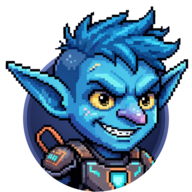
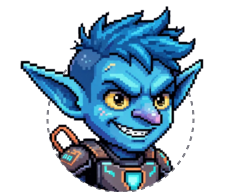
fix(app): finish the transparent goblin portrait with a dotted ring
Model: openai/gpt-6.2-sol
Request: Use the approved three-pixel-left crop and keep a thin dotted gray ring with no fill.

diff --git a/app/src/styles.css b/app/src/styles.css
@@ -8619,11 +8619,17 @@ button.link:hover {
 }
 .goblin-avatar img {
 	display: block;
-	width: 100%;
 	height: 100%;
-	object-fit: contain;
+}
+.goblin-avatar[data-portrait] img {
+	position: absolute;
+	top: 0;
+	left: 50%;
+	width: auto;
+	transform: translateX(-50%);
 }
 .goblin-avatar:not([data-portrait]) img {
+	width: 100%;
 	object-fit: cover;
 	border-radius: 50%;
 	image-rendering: pixelated;

diff --git a/.agents/skills/verify-goblin/features/posts.md b/.agents/skills/verify-goblin/features/posts.md
@@ -8,7 +8,7 @@ Goblin calls the `post` tool; the post shows in the Goblin panel's Activity tab 
 
 Desktop: the Goblin panel is the right column beside any chat page, Activity tab first. Phone: tap Goblin's avatar in the chats bar or a chat's header to open the panel as a sheet.
 
-Above the panel tabs, both ear tips and the hair should extend past the round backdrop. Clicking the portrait opens the profile, which shows the same art above its tabs.
+Above the panel tabs, the shoulders follow the thin dotted gray ring. It has no fill, and both ear tips and the hair remain intact. Clicking the portrait opens the profile, which shows the same art above its tabs.
 
 ## Driving it with agent-browser
 

diff --git a/design/app.md b/design/app.md
@@ -1099,8 +1099,10 @@ feed and one copy of each list. It starts after the auth gate passes.
   while it watches a retry.
 
 **Avatar.** The profile uses the operator's transparent pixel art: the
-goblin's ears and hair overlap the round backdrop rather than being clipped
-by it. The navigation avatar and installed app icons keep the original art.
+goblin sits 3 px left of its original position at panel size. The fixed
+circular crop shapes the shoulders but leaves the ears and hair intact.
+A thin dotted gray ring follows the crop, with no fill behind the goblin.
+The navigation avatar and installed app icons keep the original art.
 
 ## The app wire must never idle — SSE heartbeat
 
